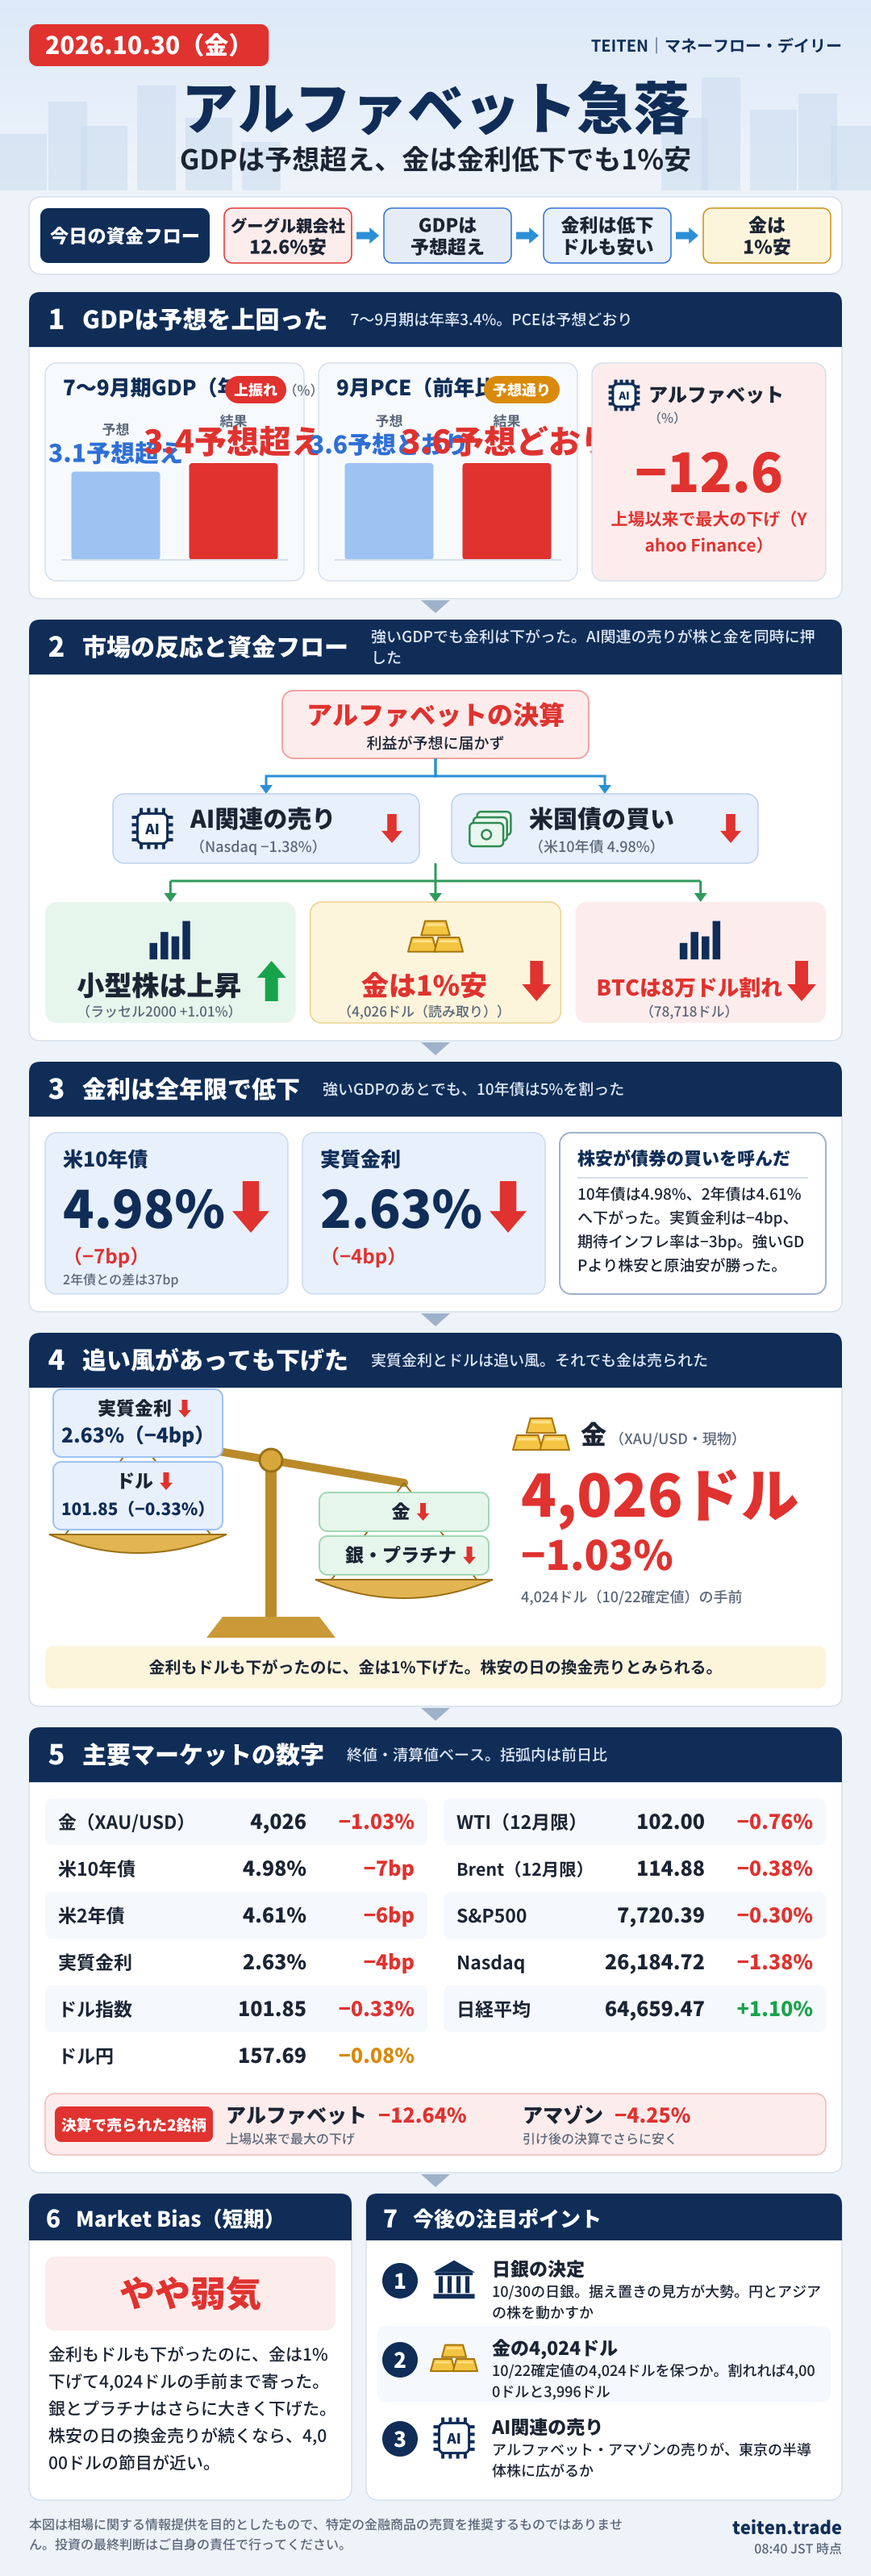
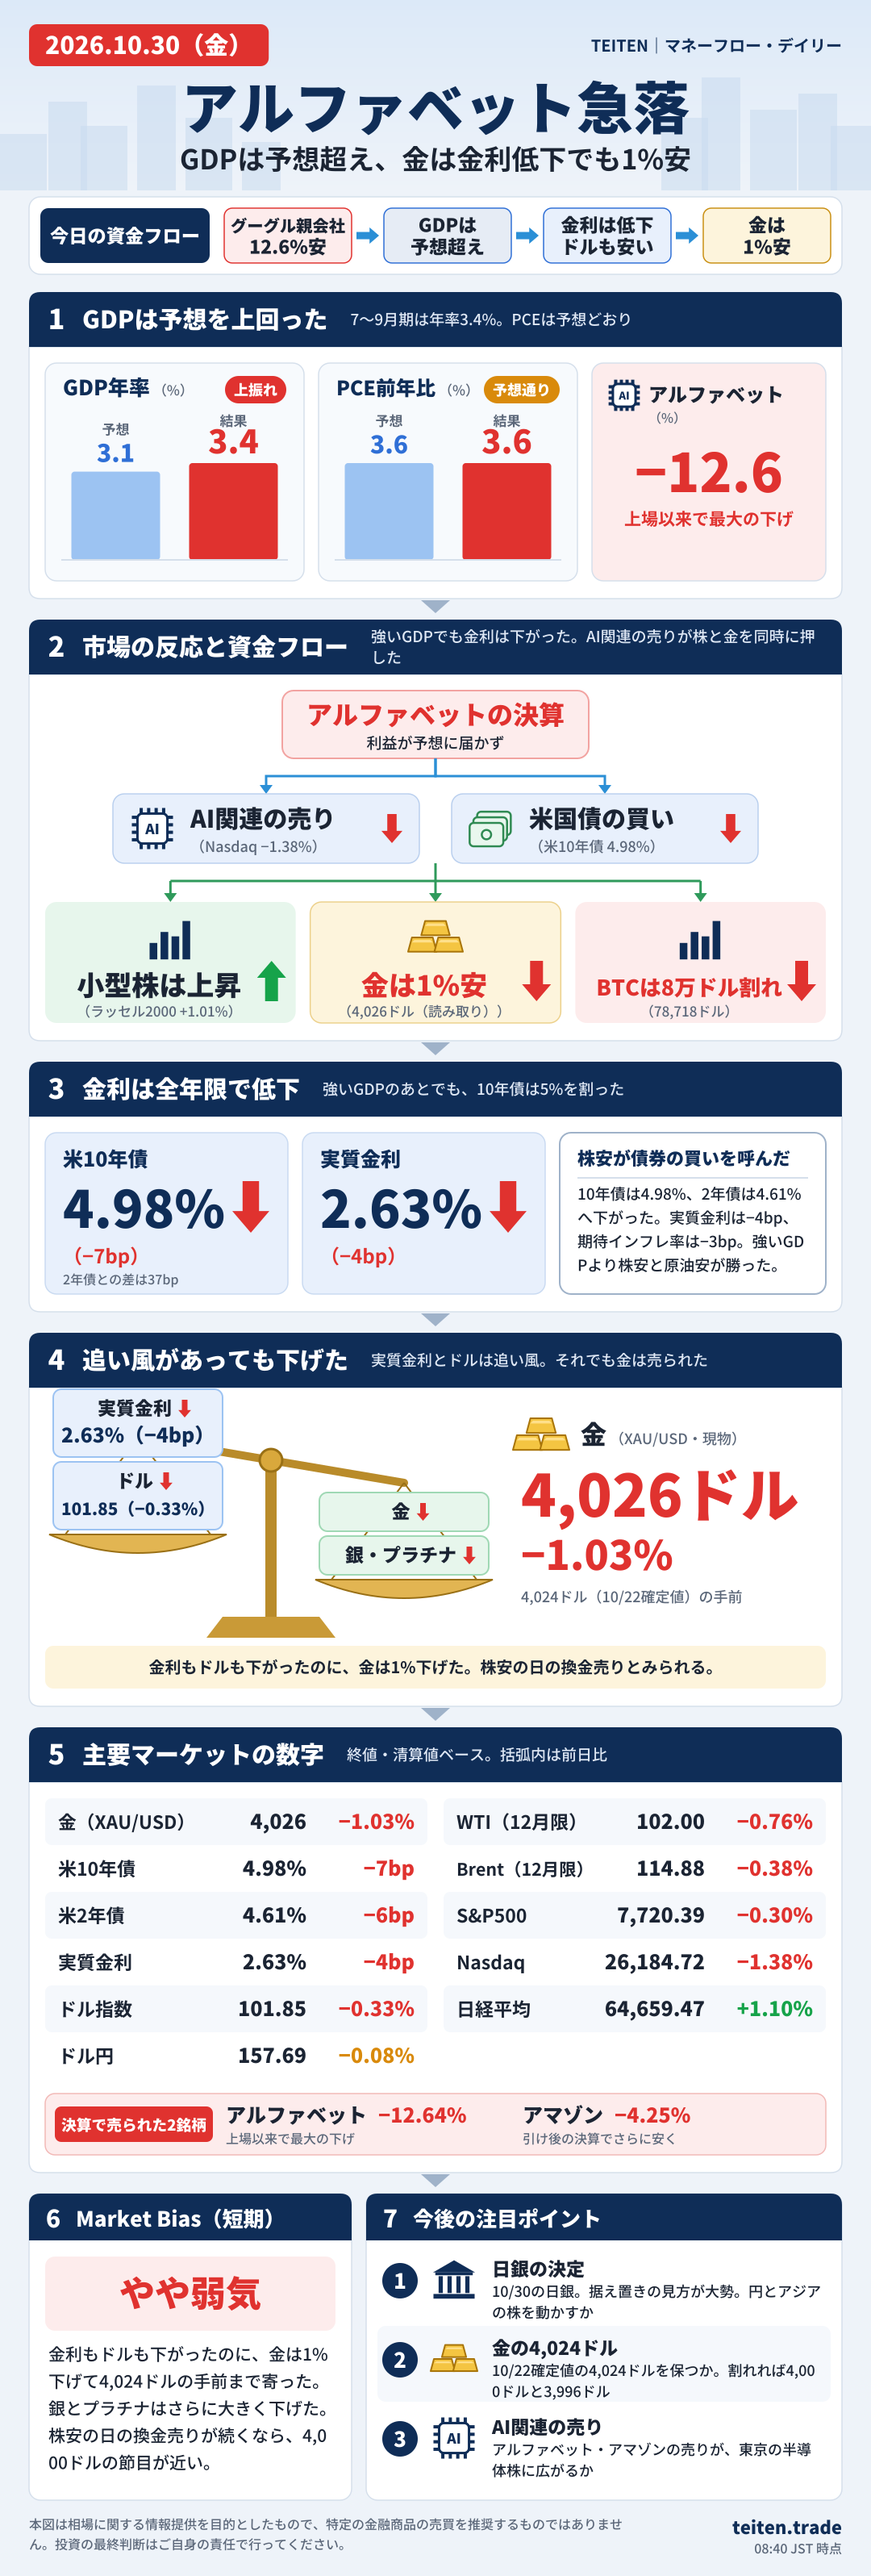
10/30号の図解「1 GDPは予想を上回った」の文字の重なりを直した
予想と結果の比較が2枠＋強調の1枠になると1枠が狭く、見出しが右上の札に、
数値どうしが互いに重なっていた。make-infographic.mjs で、見出しは札の手前まで、
数値は棒の幅に合わせて縮めるようにした。10/30号の compare は見出しを短くし
（GDP年率・PCE前年比）、上振れ・予想通りの札と重複する suffix を外した。

Claude-Session: https://claude.ai/code/session_01K6hHXNCX75dB9gL9eDm52F

Changed region(s): [[0.0611, 0.124, 0.6722, 0.186], [0.7028, 0.186, 0.9167, 0.217]]

diff --git a/src/content/reports/2026-10-30.md b/src/content/reports/2026-10-30.md
@@ -75,9 +75,9 @@ infographic:
     title: "GDPは予想を上回った"
     lead: "7〜9月期は年率3.4%。PCEは予想どおり"
     compare:
-      - { label: "7〜9月期GDP（年率）", unit: "%", forecast: "3.1", actual: "3.4", suffix: "予想超え" }
-      - { label: "9月PCE（前年比）", unit: "%", forecast: "3.6", actual: "3.6", suffix: "予想どおり" }
-    highlight: { label: "アルファベット", unit: "%", value: "−12.6", dir: down, note: "上場以来で最大の下げ（Yahoo Finance）", icon: chip }
+      - { label: "GDP年率", unit: "%", forecast: "3.1", actual: "3.4" }
+      - { label: "PCE前年比", unit: "%", forecast: "3.6", actual: "3.6" }
+    highlight: { label: "アルファベット", unit: "%", value: "−12.6", dir: down, note: "上場以来で最大の下げ", icon: chip }
   reaction:
     lead: "強いGDPでも金利は下がった。AI関連の売りが株と金を同時に押した"
     root: { text: "アルファベットの決算", sub: "利益が予想に届かず" }
